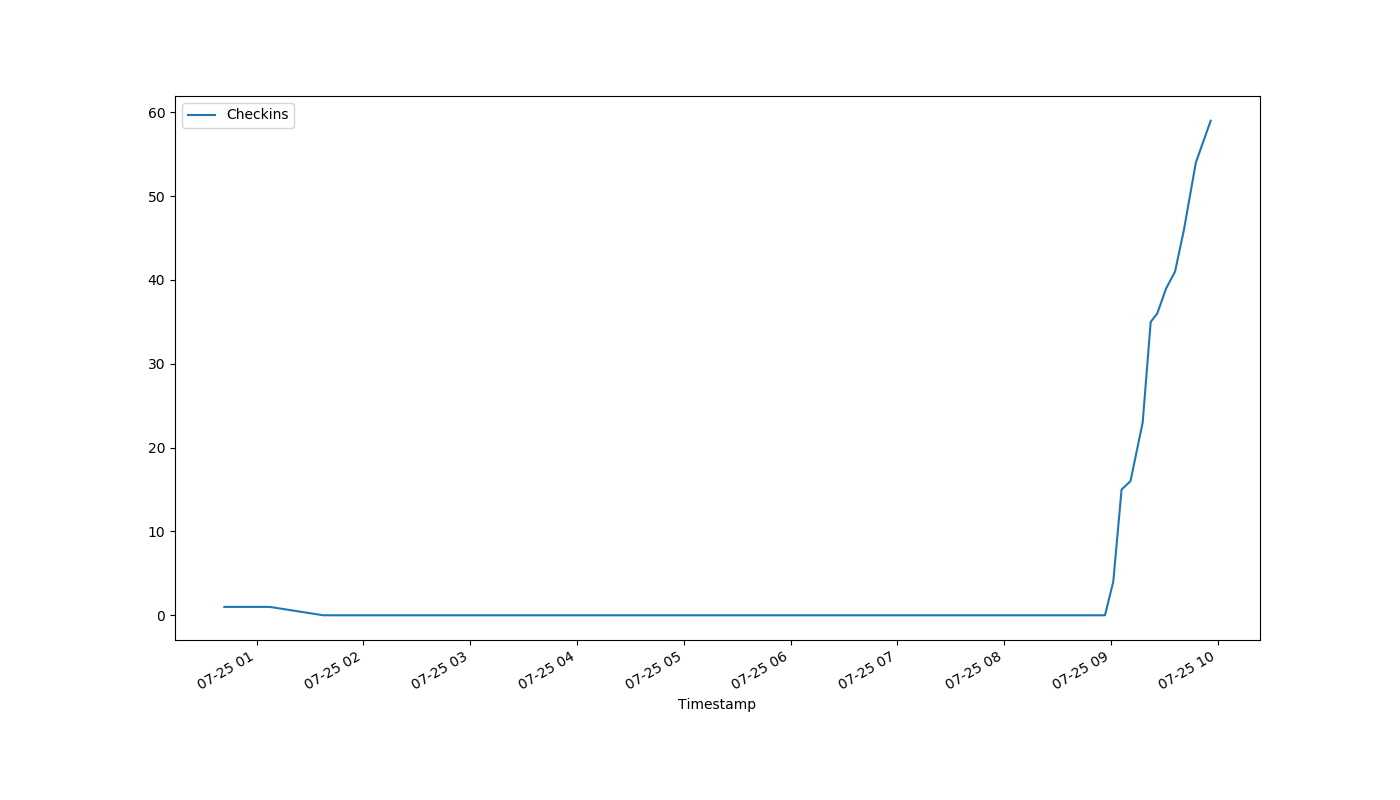
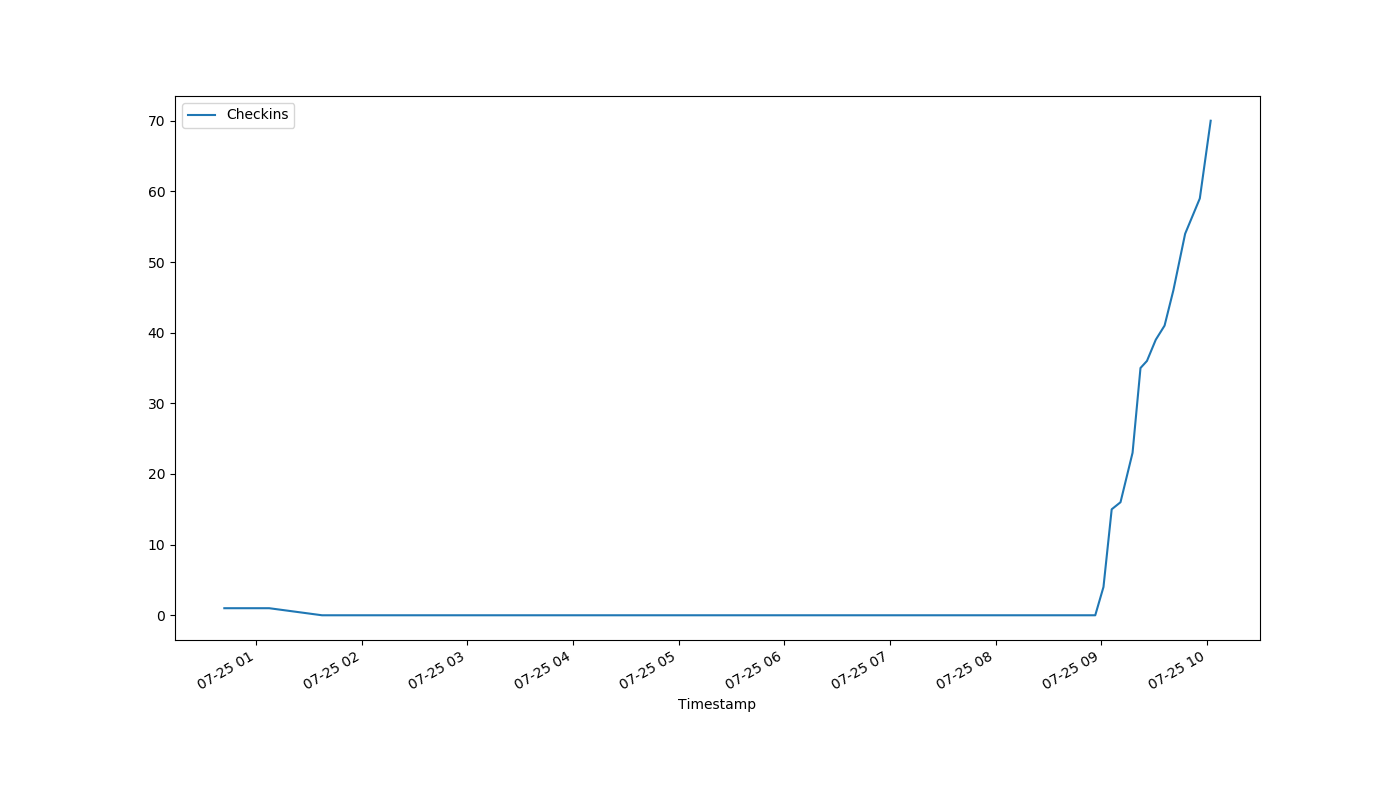
auto-Jul-25-10:04:20

diff --git a/index.html b/index.html
@@ -1,1 +1,1 @@
-<!DOCTYPE html><html><head><meta http-equiv="refresh" content="30"><link rel='stylesheet' href='holmcurrent.css'></head><body><p id='count'>-1</p><div id='graph-wrap'><img id='graph' src='holmgraph-Jul-25.png'></div><p id='updated'>Last updated 10:02:14 / 10:01:04</p></body></html>
+<!DOCTYPE html><html><head><meta http-equiv="refresh" content="30"><link rel='stylesheet' href='holmcurrent.css'></head><body><p id='count'>70</p><div id='graph-wrap'><img id='graph' src='holmgraph-Jul-25.png'></div><p id='updated'>Last updated 10:03:14 / 10:02:14</p></body></html>
